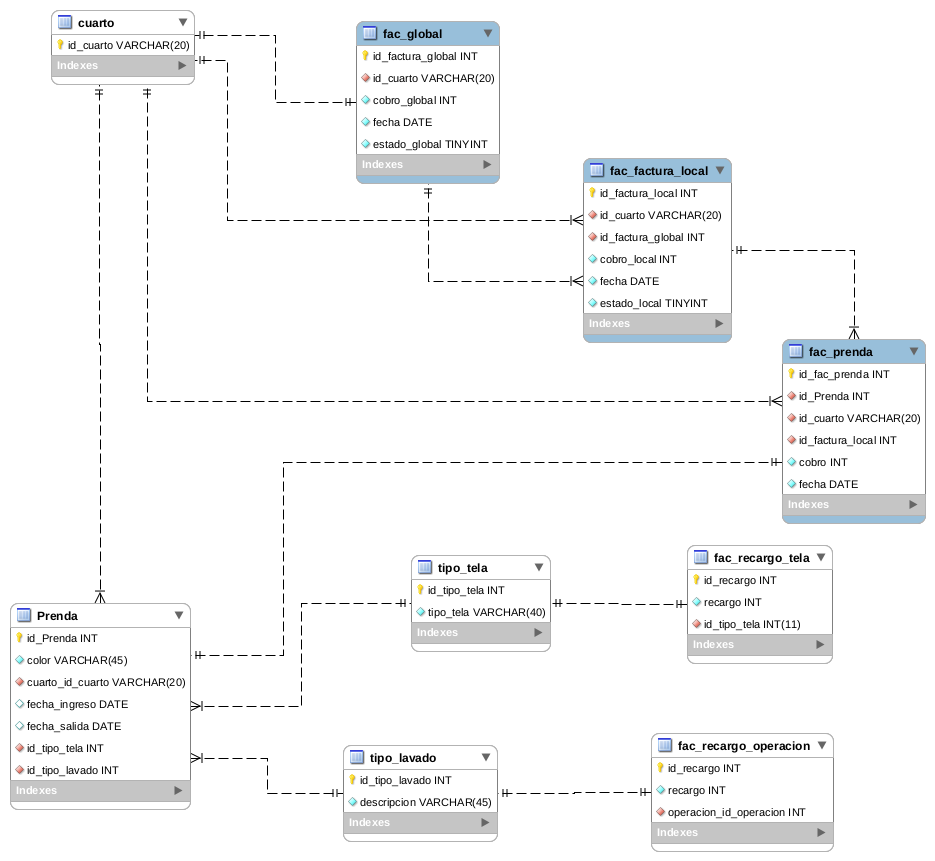
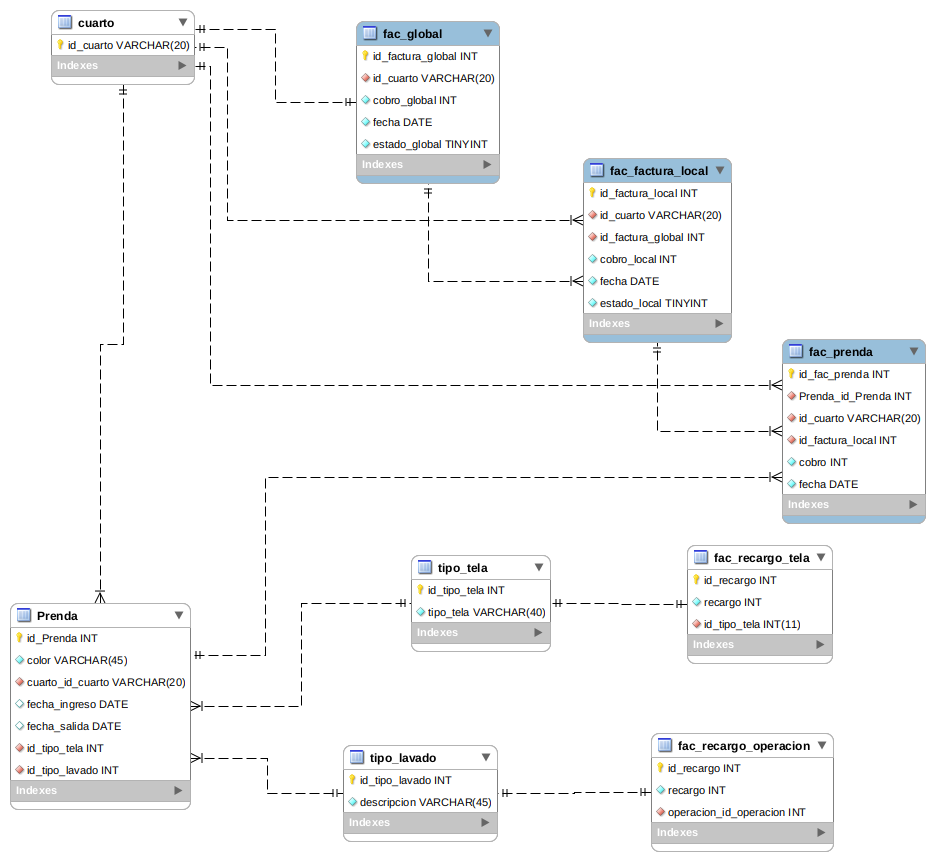
ya funciona cuando recibe una sola prenda

diff --git a/app/controllers/fac_factura_locales_controller.rb b/app/controllers/fac_factura_locales_controller.rb
@@ -1,9 +1,7 @@
 class FacFacturaLocalesController < ApplicationController
     
-    def createlocal
-        id_cuarto = "c8nFJeMeBh"
-        cobro = 9
-        fecha = '2019-05-18'
+    def self.createlocal( id_cuarto, fecha )
+        cobro = 0
         estado_local = 0
 
         @global = FacGlobal.where( "id_cuarto" => id_cuarto )
@@ -29,15 +27,13 @@ class FacFacturaLocalesController < ApplicationController
     end
 
     # Crea un factura local
-    def create( id_cuarto, id_factura_global, cobro, fecha, estado_local )
+    def self.create( id_cuarto, id_factura_global, cobro, fecha, estado_local )
         @local = FacFacturaLocal.new( :id_cuarto => id_cuarto, :fac_globals_id => id_factura_global, :cobro_local =>cobro, :fecha => fecha, :estado_local =>estado_local )
         if @local.save
-            updatecostoglobal( id_factura_global, cobro )
-            respond_to do |format|
-                format.json {render json: @local, status:201}
-              end
+            # updatecostoglobal( id_factura_global, cobro )
+            return @local
         else
-            render json: @local.errors
+            return @local.errors
         end
     end
 
@@ -50,8 +46,49 @@ class FacFacturaLocalesController < ApplicationController
 
     # Prueba update Costo
     # Retorna true si logro actualizar el costo global
-    def updatecostoglobal( id, newcosto )
+    def self.updatecostoglobal( id, newcosto )
         @global = FacGlobalesController.updatecosto( id, newcosto )
+    end
+
+
+    def self.updatecosto( id, newcosto, id_cuarto )
+        @local = FacFacturaLocal.where( "id" => id )
+        costototal = 0
+        
+        # Solo deberia recorrerlo una vez, igual el return lo saca con el primero que encuentre
+        @local.each do |registro|
+            costototal = registro.cobro_local + newcosto 
+        end
+
+        # Actualizo con el costo actualizado
+        if @local.update( :cobro_local => costototal )
+            id_factura_global = getglobal( id_cuarto )
+            if id_factura_global != -1
+                updatecostoglobal( id_factura_global, newcosto )
+            else
+                puts "No se encontro factura global para actualizar"
+                puts "FacFacturaLocalesController metodo updatecosto"    
+            end
+            
+            return true
+        else
+            return false
+        end
+    end
+
+    # Retorna la factura global activa de la factura local recivida
+    # si no encuentra ninguna retorna -1
+    def self.getglobal( id_cuarto )
+        @global = FacGlobal.where( "id_cuarto" => id_cuarto )
+
+        @global.each do |registro|
+            if registro.estado_global == 0
+                return registro.id
+            end
+        end
+
+        return -1
+
     end
 
 end

diff --git a/db/schema.rb b/db/schema.rb
@@ -10,10 +10,10 @@
 #
 # It's strongly recommended that you check this file into your version control system.
 
-ActiveRecord::Schema.define(version: 2019_05_19_201230) do
+ActiveRecord::Schema.define(version: 2019_06_22_161534) do
 
-  create_table "fac_factura_locals", options: "ENGINE=InnoDB DEFAULT CHARSET=latin1", force: :cascade do |t|
-    t.string "id_cuarto", null: false
+  create_table "fac_factura_locals", options: "ENGINE=InnoDB DEFAULT CHARSET=utf8", force: :cascade do |t|
+    t.integer "id_cuarto", null: false
     t.integer "cobro_local", default: 0, null: false
     t.date "fecha", null: false
     t.integer "estado_local", limit: 1, default: 0, null: false
@@ -23,8 +23,8 @@ ActiveRecord::Schema.define(version: 2019_05_19_201230) do
     t.index ["fac_globals_id"], name: "index_fac_factura_locals_on_fac_globals_id"
   end
 
-  create_table "fac_globals", options: "ENGINE=InnoDB DEFAULT CHARSET=latin1", force: :cascade do |t|
-    t.string "id_cuarto", null: false
+  create_table "fac_globals", options: "ENGINE=InnoDB DEFAULT CHARSET=utf8", force: :cascade do |t|
+    t.integer "id_cuarto", null: false
     t.integer "cobro_global", null: false
     t.date "fecha", null: false
     t.integer "estado_global", limit: 1, default: 0, null: false
@@ -32,9 +32,9 @@ ActiveRecord::Schema.define(version: 2019_05_19_201230) do
     t.datetime "updated_at", null: false
   end
 
-  create_table "fac_prendas", options: "ENGINE=InnoDB DEFAULT CHARSET=latin1", force: :cascade do |t|
+  create_table "fac_prendas", options: "ENGINE=InnoDB DEFAULT CHARSET=utf8", force: :cascade do |t|
     t.integer "id_prenda", null: false
-    t.string "id_cuarto", null: false
+    t.integer "id_cuarto", null: false
     t.integer "cobro", null: false
     t.date "fecha", null: false
     t.datetime "created_at", null: false
@@ -44,14 +44,14 @@ ActiveRecord::Schema.define(version: 2019_05_19_201230) do
     t.index ["fac_factura_locals_id"], name: "index_fac_prendas_on_fac_factura_locals_id"
   end
 
-  create_table "fac_recargo_operacions", options: "ENGINE=InnoDB DEFAULT CHARSET=latin1", force: :cascade do |t|
+  create_table "fac_recargo_operacions", options: "ENGINE=InnoDB DEFAULT CHARSET=utf8", force: :cascade do |t|
     t.integer "recargo", null: false
     t.integer "id_operacion", null: false
     t.datetime "created_at", null: false
     t.datetime "updated_at", null: false
   end
 
-  create_table "fac_recargo_telas", options: "ENGINE=InnoDB DEFAULT CHARSET=latin1", force: :cascade do |t|
+  create_table "fac_recargo_telas", options: "ENGINE=InnoDB DEFAULT CHARSET=utf8", force: :cascade do |t|
     t.integer "recargo", null: false
     t.integer "id_tipo_tela", null: false
     t.datetime "created_at", null: false

diff --git a/app/controllers/fac_prendas_controller.rb b/app/controllers/fac_prendas_controller.rb
@@ -7,8 +7,67 @@ class FacPrendasController < ApplicationController
     end
 
     # POST: /fac_prendas
-    def create
-        # Generar Factura local
+    # recibe un json con un array de datos id_cuarto, id_prenda, id_operacion, fecha
+    # Los separa por paquetes y por cada uno realiza un llamado a la función create
+    def createPrenda
+        input_json = params[:factura]
+        id_cuarto = params[:id_cuarto]
+        id_fac_local = -1
+
+        # Busca si hay una factura local activa para ese cuarto
+        @factura_local = FacFacturaLocal.where( "id_cuarto" => id_cuarto )
+
+        @factura_local.each do |registro|
+            
+            # Solo deberia encontrar una o ninnguna facturas locales activas
+            if registro.estado_local == 0
+                id_fac_local = registro.id
+            end
+        end
+        
+        # Recorre la parte de facturacion del json recibido
+        input_json.each do |index|
+            fecha = index["fecha_ingreso"]
+            id_operacion = index["id_operacion"]
+            id_prenda = index["id_prenda"]
+            cobro = ""
+
+            # obtiene el precio "cobro" por la operacion realizada
+            @recargo = FacRecargoOperacion.where( "id_operacion" => id_operacion )
+            # TODO: Reconocer si la consulta esta vacia
+            @recargo.each do |registro|
+                cobro = registro.recargo
+            end
+
+            # Si hay una factura local activa crea una nueva fac_prenda y la asocia
+           if id_fac_local != -1
+            create( id_fac_local, id_cuarto, id_prenda, cobro, fecha )
+            return
+           end
+
+            # si no existen facturas locales activas crea una nueva
+            @newFacLocal = FacFacturaLocalesController.createlocal( id_cuarto, fecha )
+            create( @newFacLocal.id, id_cuarto, id_prenda, cobro, fecha )
+
+        end
+        
+    end
+    
+    # crea una nueva fac_prenda
+    def create ( id_fac_local, id_cuarto, id_prenda, cobro, fecha )
+        @prenda = FacPrenda.new( :id_prenda => id_prenda, :id_cuarto => id_cuarto, :cobro => cobro, :fecha => fecha, :fac_factura_locals_id => id_fac_local )
+        if @prenda.save
+            updatecostolocal( id_fac_local, cobro, id_cuarto )
+            respond_to do |format|
+                format.json {render json: @prenda, status:201}
+              end
+        else
+            render json: @prenda.errors
+        end
+    end
+
+    def updatecostolocal( id_fac_local, newcosto, id_cuarto )
+        FacFacturaLocalesController.updatecosto( id_fac_local, newcosto, id_cuarto )
     end
     
 end

diff --git a/app/controllers/fac_globales_controller.rb b/app/controllers/fac_globales_controller.rb
@@ -7,19 +7,13 @@ class FacGlobalesController < ApplicationController
     
     # POST: /createglobales
     def self.create( id_cuarto, fecha )
-        # id_cuarto = "c8nFJeMeBe"
         cobro_global = 0
-        # fecha = '2019-05-18'
         estado_global = 0
 
         @global = FacGlobal.new( :id_cuarto => id_cuarto, :cobro_global => cobro_global, :fecha => fecha, :estado_global => estado_global )
         if @global.save
-            #respond_to do |format|
-            #    format.json {render json: @global, status:201}
-            #  end
             return @global
         else
-            # render json: @global.errors
             return @global.errors
         end
 

diff --git a/config/routes.rb b/config/routes.rb
@@ -14,4 +14,7 @@ Rails.application.routes.draw do
   post "/createlocales", to: "fac_factura_locales#createlocal"  # Para comentar
   get "/getlocales", to: "fac_factura_locales#index" # para comentar
   patch "/updateprueba", to: "fac_factura_locales#updatecostoglobal" # para ELIMINAR 
+
+  # fac_prendas
+  post "postfacprendas", to: "fac_prendas#createPrenda"
 end

diff --git a/db/migrate/20190622161534_cambio_tipo_id_cliente.rb b/db/migrate/20190622161534_cambio_tipo_id_cliente.rb
@@ -1,0 +1,7 @@
+class CambioTipoIdCliente < ActiveRecord::Migration[5.2]
+  def change
+    change_column(:fac_prendas, :id_cuarto, :integer)
+    change_column(:fac_factura_locals, :id_cuarto, :integer)
+    change_column(:fac_globals, :id_cuarto, :integer)
+  end
+end
